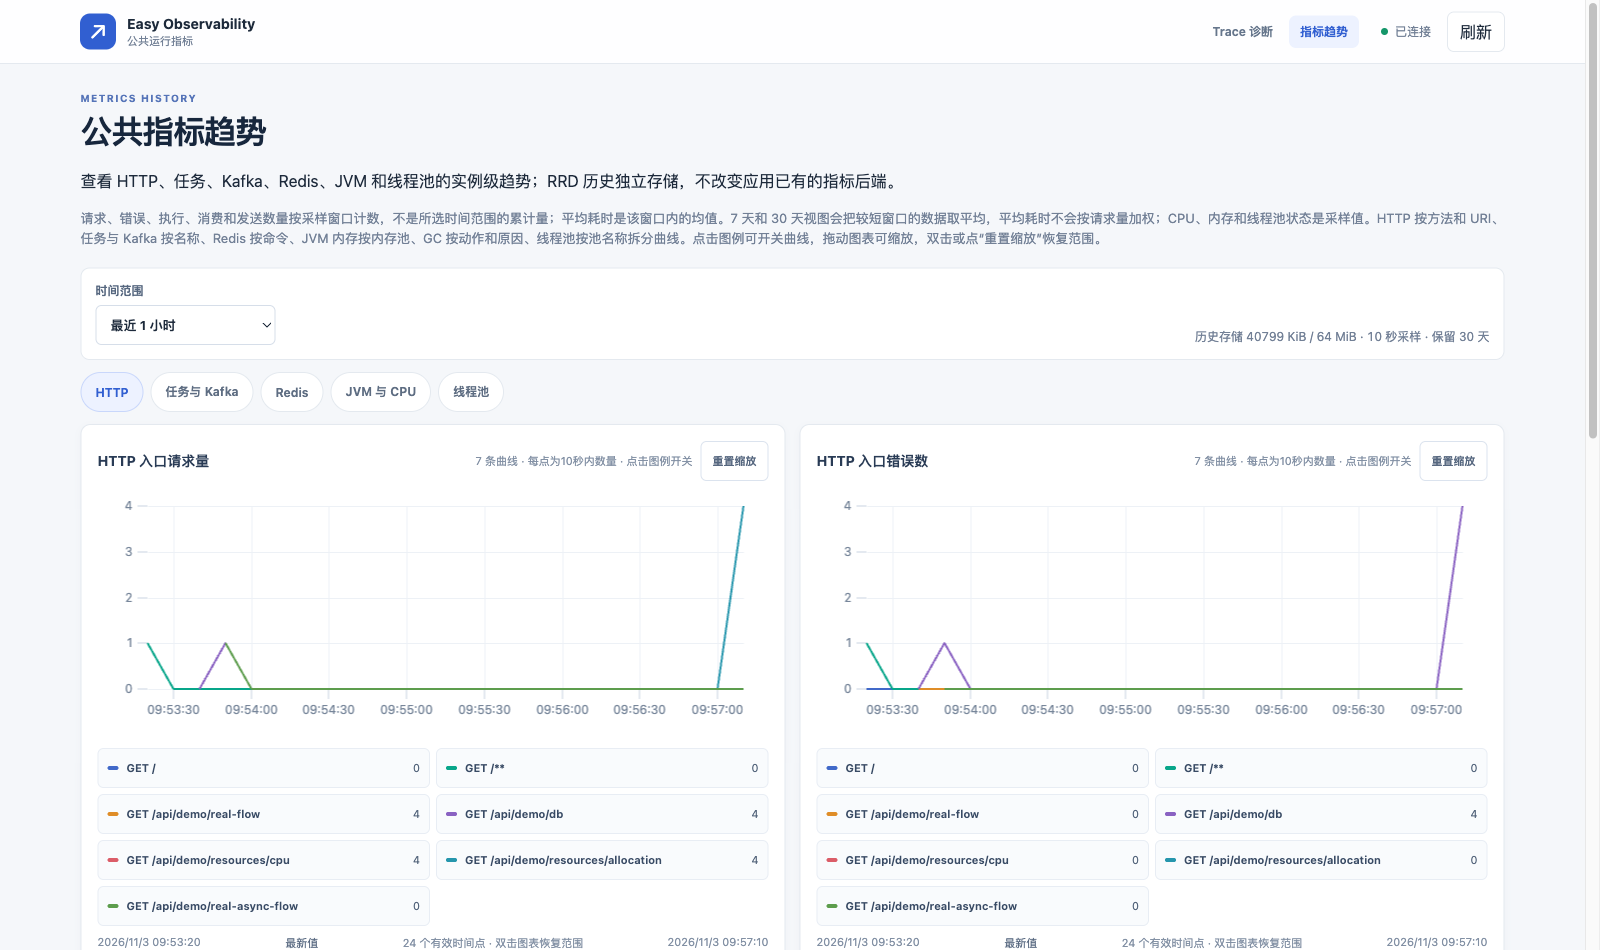
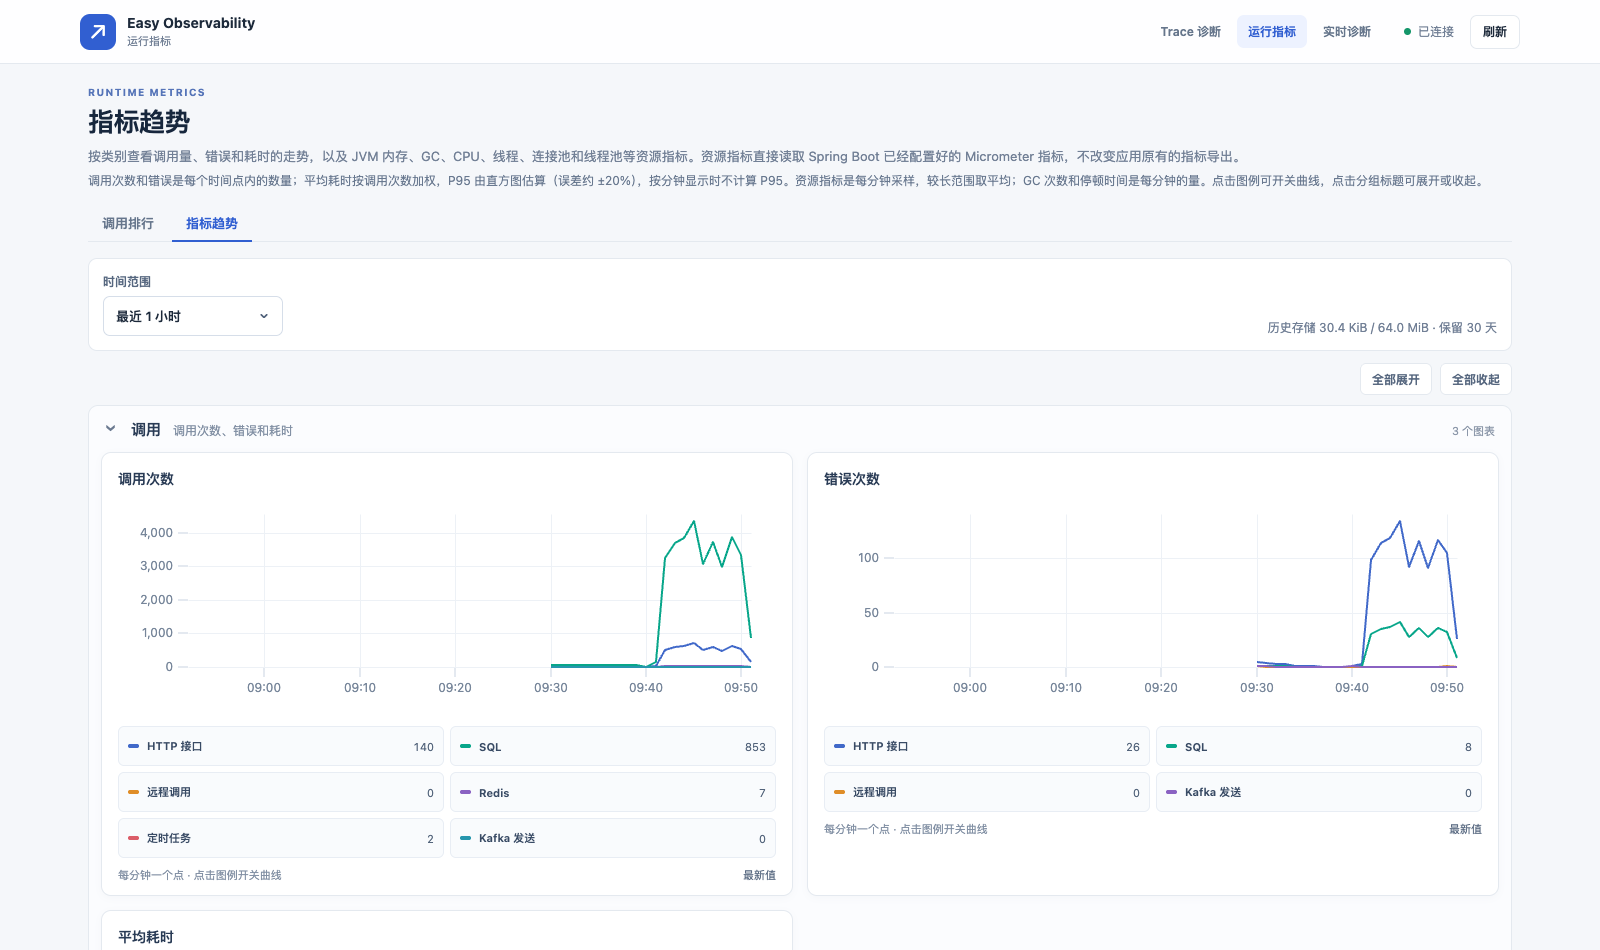
feat: log the dashboard address and refresh README screenshots
- print the dashboard URL once the application is ready
- five current screenshots and a comparison with other tools
- live page span kinds use the same labels as the trace page
- fix the metrics page intro font size

diff --git a/easy-observability-spring-boot-common/src/main/resources/META-INF/resources/easy-observability/assets/live.js b/easy-observability-spring-boot-common/src/main/resources/META-INF/resources/easy-observability/assets/live.js
@@ -1,4 +1,4 @@
-import { $, api, formatBytes, formatMs, initializeEmbeddedAuth, node, request } from './metrics-common.js?v=20261106.6'
+import { $, api, formatBytes, formatMs, initializeEmbeddedAuth, kindName, node, request } from './metrics-common.js?v=20261106.7'
 
 const DENIED = '没有查看实时诊断的权限，请登录或检查 ObservabilityAccessPolicy'
 const SOURCES = { HTTP: 'HTTP', JOB: '定时任务', KAFKA_CONSUMER: 'Kafka 消费' }
@@ -82,7 +82,7 @@ function renderRequests() {
     const elapsed = node('td', `numeric ${item.elapsedMs >= 30000 ? 'bad' : item.elapsedMs >= 5000 ? 'warn' : ''}`,
       formatMs(item.elapsedMs))
     const step = item.currentStep
-    const stepCell = clipped('mono', step ? `[${step.kind}] ${step.detail || step.name} · ${formatMs(step.elapsedMs)}` : '—',
+    const stepCell = clipped('mono', step ? `[${kindName(step.kind)}] ${step.detail || step.name} · ${formatMs(step.elapsedMs)}` : '—',
       step ? step.detail || step.name : '')
     const thread = node('td')
     thread.append(stateBadge(item.async ? null : item.threadState), ' ', item.async ? '入口线程已返回' : item.threadName)
@@ -114,7 +114,7 @@ function requestDetail(item) {
   cell.append(facts)
   if (item.currentStep) {
     const step = item.currentStep
-    cell.append(node('pre', 'live-stack', `当前步骤 [${step.kind}] ${step.name}，已执行 ${formatMs(step.elapsedMs)}\n${step.detail || ''}`))
+    cell.append(node('pre', 'live-stack', `当前步骤 [${kindName(step.kind)}] ${step.name}，已执行 ${formatMs(step.elapsedMs)}\n${step.detail || ''}`))
     cell.lastChild.style.marginBottom = '8px'
   }
   cell.append(item.async ? node('p', 'stats-detail-status', '请求已转为异步处理，入口线程已返回，没有对应的线程堆栈') : stackBlock(item.stack))

diff --git a/easy-observability-spring-boot-common/src/main/resources/META-INF/resources/easy-observability/live.html b/easy-observability-spring-boot-common/src/main/resources/META-INF/resources/easy-observability/live.html
@@ -6,10 +6,10 @@
   <meta name="color-scheme" content="light">
   <title>Easy Observability · 实时诊断</title>
   <link rel="icon" href="data:,">
-  <link rel="stylesheet" href="../assets/dashboard.css?v=20261106.6">
-  <link rel="stylesheet" href="../assets/metrics.css?v=20261106.6">
-  <link rel="stylesheet" href="../assets/stats.css?v=20261106.6">
-  <link rel="stylesheet" href="../assets/live.css?v=20261106.6">
+  <link rel="stylesheet" href="../assets/dashboard.css?v=20261106.7">
+  <link rel="stylesheet" href="../assets/metrics.css?v=20261106.7">
+  <link rel="stylesheet" href="../assets/stats.css?v=20261106.7">
+  <link rel="stylesheet" href="../assets/live.css?v=20261106.7">
 </head>
 <body>
   <a class="skip-link" href="#main-content">跳到主要内容</a>
@@ -77,6 +77,6 @@
     </section>
     <footer>进行中请求只包含 HTTP、定时任务和 Kafka 消费入口；异步请求在入口线程返回后不再显示线程和堆栈。线程 CPU 使用率为 1 秒采样内占用单个核心的比例，100% 表示占满一个核心。虚拟线程不在线程列表中。</footer>
   </main>
-  <script type="module" src="../assets/live.js?v=20261106.6"></script>
+  <script type="module" src="../assets/live.js?v=20261106.7"></script>
 </body>
 </html>

diff --git a/easy-observability-spring-boot-common/src/main/resources/META-INF/resources/easy-observability/metrics.html b/easy-observability-spring-boot-common/src/main/resources/META-INF/resources/easy-observability/metrics.html
@@ -6,9 +6,9 @@
   <meta name="color-scheme" content="light">
   <title>Easy Observability · 指标趋势</title>
   <link rel="icon" href="data:,">
-  <link rel="stylesheet" href="../assets/dashboard.css?v=20261106.6">
+  <link rel="stylesheet" href="../assets/dashboard.css?v=20261106.7">
   <link rel="stylesheet" href="../assets/uplot.min.css?v=1.6.32">
-  <link rel="stylesheet" href="../assets/metrics.css?v=20261106.6">
+  <link rel="stylesheet" href="../assets/metrics.css?v=20261106.7">
 </head>
 <body>
   <a class="skip-link" href="#main-content">跳到主要内容</a>
@@ -49,6 +49,6 @@
     <footer>每个实例各自保存历史，位于存储目录的 metrics/ 下：最近 2 天保留细粒度数据，更早的按小时（调用）或 10 分钟（资源）合并；保留天数和容量上限由 easy.observability.metrics.retention 和 max-storage-size 决定。可用 easy.observability.metrics.include 追加自定义 Micrometer 指标。</footer>
   </main>
   <script src="../assets/uplot.min.js?v=1.6.32"></script>
-  <script type="module" src="../assets/metrics.js?v=20261106.6"></script>
+  <script type="module" src="../assets/metrics.js?v=20261106.7"></script>
 </body>
 </html>

diff --git a/easy-observability-spring-boot-common/src/main/resources/META-INF/resources/easy-observability/stats.html b/easy-observability-spring-boot-common/src/main/resources/META-INF/resources/easy-observability/stats.html
@@ -6,10 +6,10 @@
   <meta name="color-scheme" content="light">
   <title>Easy Observability · 调用排行</title>
   <link rel="icon" href="data:,">
-  <link rel="stylesheet" href="../assets/dashboard.css?v=20261106.6">
+  <link rel="stylesheet" href="../assets/dashboard.css?v=20261106.7">
   <link rel="stylesheet" href="../assets/uplot.min.css?v=1.6.32">
-  <link rel="stylesheet" href="../assets/metrics.css?v=20261106.6">
-  <link rel="stylesheet" href="../assets/stats.css?v=20261106.6">
+  <link rel="stylesheet" href="../assets/metrics.css?v=20261106.7">
+  <link rel="stylesheet" href="../assets/stats.css?v=20261106.7">
 </head>
 <body>
   <a class="skip-link" href="#main-content">跳到主要内容</a>
@@ -63,6 +63,6 @@
     <div class="dialog-actions"><button id="cancel-reset" type="button">取消</button><button id="confirm-reset" class="danger" type="button">重置</button></div>
   </dialog>
   <script src="../assets/uplot.min.js?v=1.6.32"></script>
-  <script type="module" src="../assets/stats.js?v=20261106.6"></script>
+  <script type="module" src="../assets/stats.js?v=20261106.7"></script>
 </body>
 </html>

diff --git a/easy-observability-spring-boot-common/src/main/resources/META-INF/resources/easy-observability/assets/dashboard.css b/easy-observability-spring-boot-common/src/main/resources/META-INF/resources/easy-observability/assets/dashboard.css
@@ -110,7 +110,7 @@ select option { color: var(--ink); font-weight: 500; }
 .intro { margin-bottom: 16px; }
 .eyebrow { margin: 0 0 5px; color: #5574b8; font-size: 10px; font-weight: 750; letter-spacing: .13em; }
 .intro h1 { margin: 0; color: #17273d; font-size: clamp(22px, 2.4vw, 26px); letter-spacing: -.02em; }
-.intro > p:last-child { margin: 6px 0 0; color: var(--muted); font-size: 13px; line-height: 1.55; }
+.intro h1 + p { margin: 6px 0 0; color: var(--muted); font-size: 13px; line-height: 1.55; }
 .notice {
   margin: 12px 0;
   padding: 11px 14px;
@@ -338,7 +338,7 @@ body:has(dialog[open]) { overflow: hidden; }
   .report { padding: 22px 12px 18px; }
   .intro { margin-bottom: 14px; }
   .intro h1 { font-size: 25px; }
-  .intro > p:last-child { font-size: 12px; }
+  .intro h1 + p { font-size: 12px; }
   .filters { grid-template-columns: 1fr 1fr; gap: 9px; padding: 11px; }
   .filters .search, .count { grid-column: 1 / -1; }
   .filters .search { grid-row: 2; }

diff --git a/easy-observability-spring-boot-common/src/main/resources/META-INF/resources/easy-observability/index.html b/easy-observability-spring-boot-common/src/main/resources/META-INF/resources/easy-observability/index.html
@@ -6,7 +6,7 @@
   <meta name="color-scheme" content="light">
   <title>Easy Observability · Trace</title>
   <link rel="icon" href="data:,">
-  <link rel="stylesheet" href="assets/dashboard.css?v=20261106.6">
+  <link rel="stylesheet" href="assets/dashboard.css?v=20261106.7">
 </head>
 <body>
   <a class="skip-link" href="#main-content">跳到主要内容</a>
@@ -76,6 +76,6 @@
     <p>将删除当前实例内存中的近期记录和诊断 Trace 归档文件。</p>
     <div class="dialog-actions"><button id="cancel-clear" type="button">取消</button><button id="confirm-clear" class="danger" type="button">清空</button></div>
   </dialog>
-  <script type="module" src="assets/dashboard.js?v=20261106.6"></script>
+  <script type="module" src="assets/dashboard.js?v=20261106.7"></script>
 </body>
 </html>

diff --git a/easy-observability-spring-boot-common/src/main/resources/META-INF/resources/easy-observability/assets/metrics-common.js b/easy-observability-spring-boot-common/src/main/resources/META-INF/resources/easy-observability/assets/metrics-common.js
@@ -1,4 +1,9 @@
 // Shared by the call ranking and metric trend pages: API access, embedded auth and uPlot line charts.
+// Same Chinese labels as the trace page uses for span kinds.
+const KIND_NAMES = { Http: 'HTTP', Database: 'SQL', Redis: 'Redis', Remote: '远程调用', Kafka: 'Kafka', Transaction: '事务',
+  Schedule: '定时任务', Service: '服务', Code: '代码', Other: '其他' }
+export const kindName = kind => KIND_NAMES[kind] || kind || '调用'
+
 export const api = new URL('../../api/easy-observability/', import.meta.url)
 export const $ = id => document.getElementById(id)
 export const DISABLED_MESSAGE = '运行指标未启用：请确认 easy.observability.metrics.enabled 为 true'

diff --git a/easy-observability-spring-boot-common/src/main/resources/META-INF/resources/easy-observability/assets/stats.js b/easy-observability-spring-boot-common/src/main/resources/META-INF/resources/easy-observability/assets/stats.js
@@ -1,6 +1,6 @@
 import {
   $, DISABLED_MESSAGE, categoryNames, countsSince, formatBytes, formatMs, initializeEmbeddedAuth, lineChart, node, request
-} from './metrics-common.js?v=20261106.6'
+} from './metrics-common.js?v=20261106.7'
 
 const REFRESH_MS = 10000
 // Day ranges change slowly and read history files, so poll them less often.

diff --git a/easy-observability-spring-boot-common/src/main/resources/META-INF/resources/easy-observability/assets/metrics.js b/easy-observability-spring-boot-common/src/main/resources/META-INF/resources/easy-observability/assets/metrics.js
@@ -1,6 +1,6 @@
 import {
   $, DISABLED_MESSAGE, categoryNames, countsSince, formatValue, initializeEmbeddedAuth, lineChart, request
-} from './metrics-common.js?v=20261106.6'
+} from './metrics-common.js?v=20261106.7'
 
 const PERIODS = new Set(['1h', '24h', '7d', '30d'])
 const REFRESH_MS = 60000

diff --git a/easy-observability-spring-boot-common/src/main/java/io/github/lakernote/observability/autoconfigure/DashboardAddress.java b/easy-observability-spring-boot-common/src/main/java/io/github/lakernote/observability/autoconfigure/DashboardAddress.java
@@ -1,0 +1,34 @@
+package io.github.lakernote.observability.autoconfigure;
+
+import org.slf4j.Logger;
+import org.slf4j.LoggerFactory;
+import org.springframework.core.env.Environment;
+
+/** Builds the local dashboard URL from the running server's port, context path and DispatcherServlet path. */
+final class DashboardAddress {
+    private static final Logger log = LoggerFactory.getLogger(DashboardAddress.class);
+
+    private DashboardAddress() {
+    }
+
+    static void log(Environment environment) {
+        String url = url(environment);
+        if (url != null) log.info("Easy Observability dashboard: {}", url);
+    }
+
+    /** Returns {@code null} when no server port is known, for example in a mock web environment. */
+    static String url(Environment environment) {
+        String port = environment.getProperty("local.server.port");
+        if (port == null || port.isBlank()) return null;
+        String scheme = environment.getProperty("server.ssl.enabled", Boolean.class, false) ? "https" : "http";
+        return scheme + "://localhost:" + port + path(environment.getProperty("server.servlet.context-path"))
+                + path(environment.getProperty("spring.mvc.servlet.path")) + "/easy-observability/";
+    }
+
+    private static String path(String value) {
+        if (value == null || value.isBlank() || "/".equals(value.trim())) return "";
+        String path = value.trim();
+        if (!path.startsWith("/")) path = "/" + path;
+        return path.endsWith("/") ? path.substring(0, path.length() - 1) : path;
+    }
+}

diff --git a/easy-observability-spring-boot-common/src/test/java/io/github/lakernote/observability/autoconfigure/DashboardAddressTest.java b/easy-observability-spring-boot-common/src/test/java/io/github/lakernote/observability/autoconfigure/DashboardAddressTest.java
@@ -1,0 +1,35 @@
+package io.github.lakernote.observability.autoconfigure;
+
+import org.junit.jupiter.api.Test;
+import org.springframework.mock.env.MockEnvironment;
+
+import static org.assertj.core.api.Assertions.assertThat;
+
+class DashboardAddressTest {
+
+    @Test
+    void combinesPortContextPathAndServletPath() {
+        MockEnvironment environment = new MockEnvironment()
+                .withProperty("local.server.port", "8080")
+                .withProperty("server.servlet.context-path", "/shop/")
+                .withProperty("spring.mvc.servlet.path", "api");
+
+        assertThat(DashboardAddress.url(environment)).isEqualTo("http://localhost:8080/shop/api/easy-observability/");
+    }
+
+    @Test
+    void usesHttpsWhenSslIsEnabledAndIgnoresRootPaths() {
+        MockEnvironment environment = new MockEnvironment()
+                .withProperty("local.server.port", "8443")
+                .withProperty("server.ssl.enabled", "true")
+                .withProperty("server.servlet.context-path", "/")
+                .withProperty("spring.mvc.servlet.path", "/");
+
+        assertThat(DashboardAddress.url(environment)).isEqualTo("https://localhost:8443/easy-observability/");
+    }
+
+    @Test
+    void staysQuietWithoutARunningServer() {
+        assertThat(DashboardAddress.url(new MockEnvironment())).isNull();
+    }
+}

diff --git a/easy-observability-spring-boot-common/src/main/java/io/github/lakernote/observability/autoconfigure/ObservabilityWebAutoConfiguration.java b/easy-observability-spring-boot-common/src/main/java/io/github/lakernote/observability/autoconfigure/ObservabilityWebAutoConfiguration.java
@@ -10,6 +10,8 @@ import org.springframework.boot.autoconfigure.condition.ConditionalOnClass;
 import org.springframework.boot.autoconfigure.condition.ConditionalOnMissingBean;
 import org.springframework.boot.autoconfigure.condition.ConditionalOnProperty;
 import org.springframework.boot.autoconfigure.condition.ConditionalOnWebApplication;
+import org.springframework.boot.context.event.ApplicationReadyEvent;
+import org.springframework.context.ApplicationListener;
 import org.springframework.context.annotation.Bean;
 import org.springframework.context.annotation.Import;
 import org.springframework.web.servlet.DispatcherServlet;
@@ -33,6 +35,12 @@ public class ObservabilityWebAutoConfiguration implements WebMvcConfigurer {
     @ConditionalOnMissingBean
     ObservabilityAccessPolicy observabilityAccessPolicy() {
         return () -> true;
+    }
+
+    /** Prints where the dashboard is served once the application is ready to take requests. */
+    @Bean
+    ApplicationListener<ApplicationReadyEvent> observabilityDashboardAddressLogger() {
+        return event -> DashboardAddress.log(event.getApplicationContext().getEnvironment());
     }
 
     @Override
